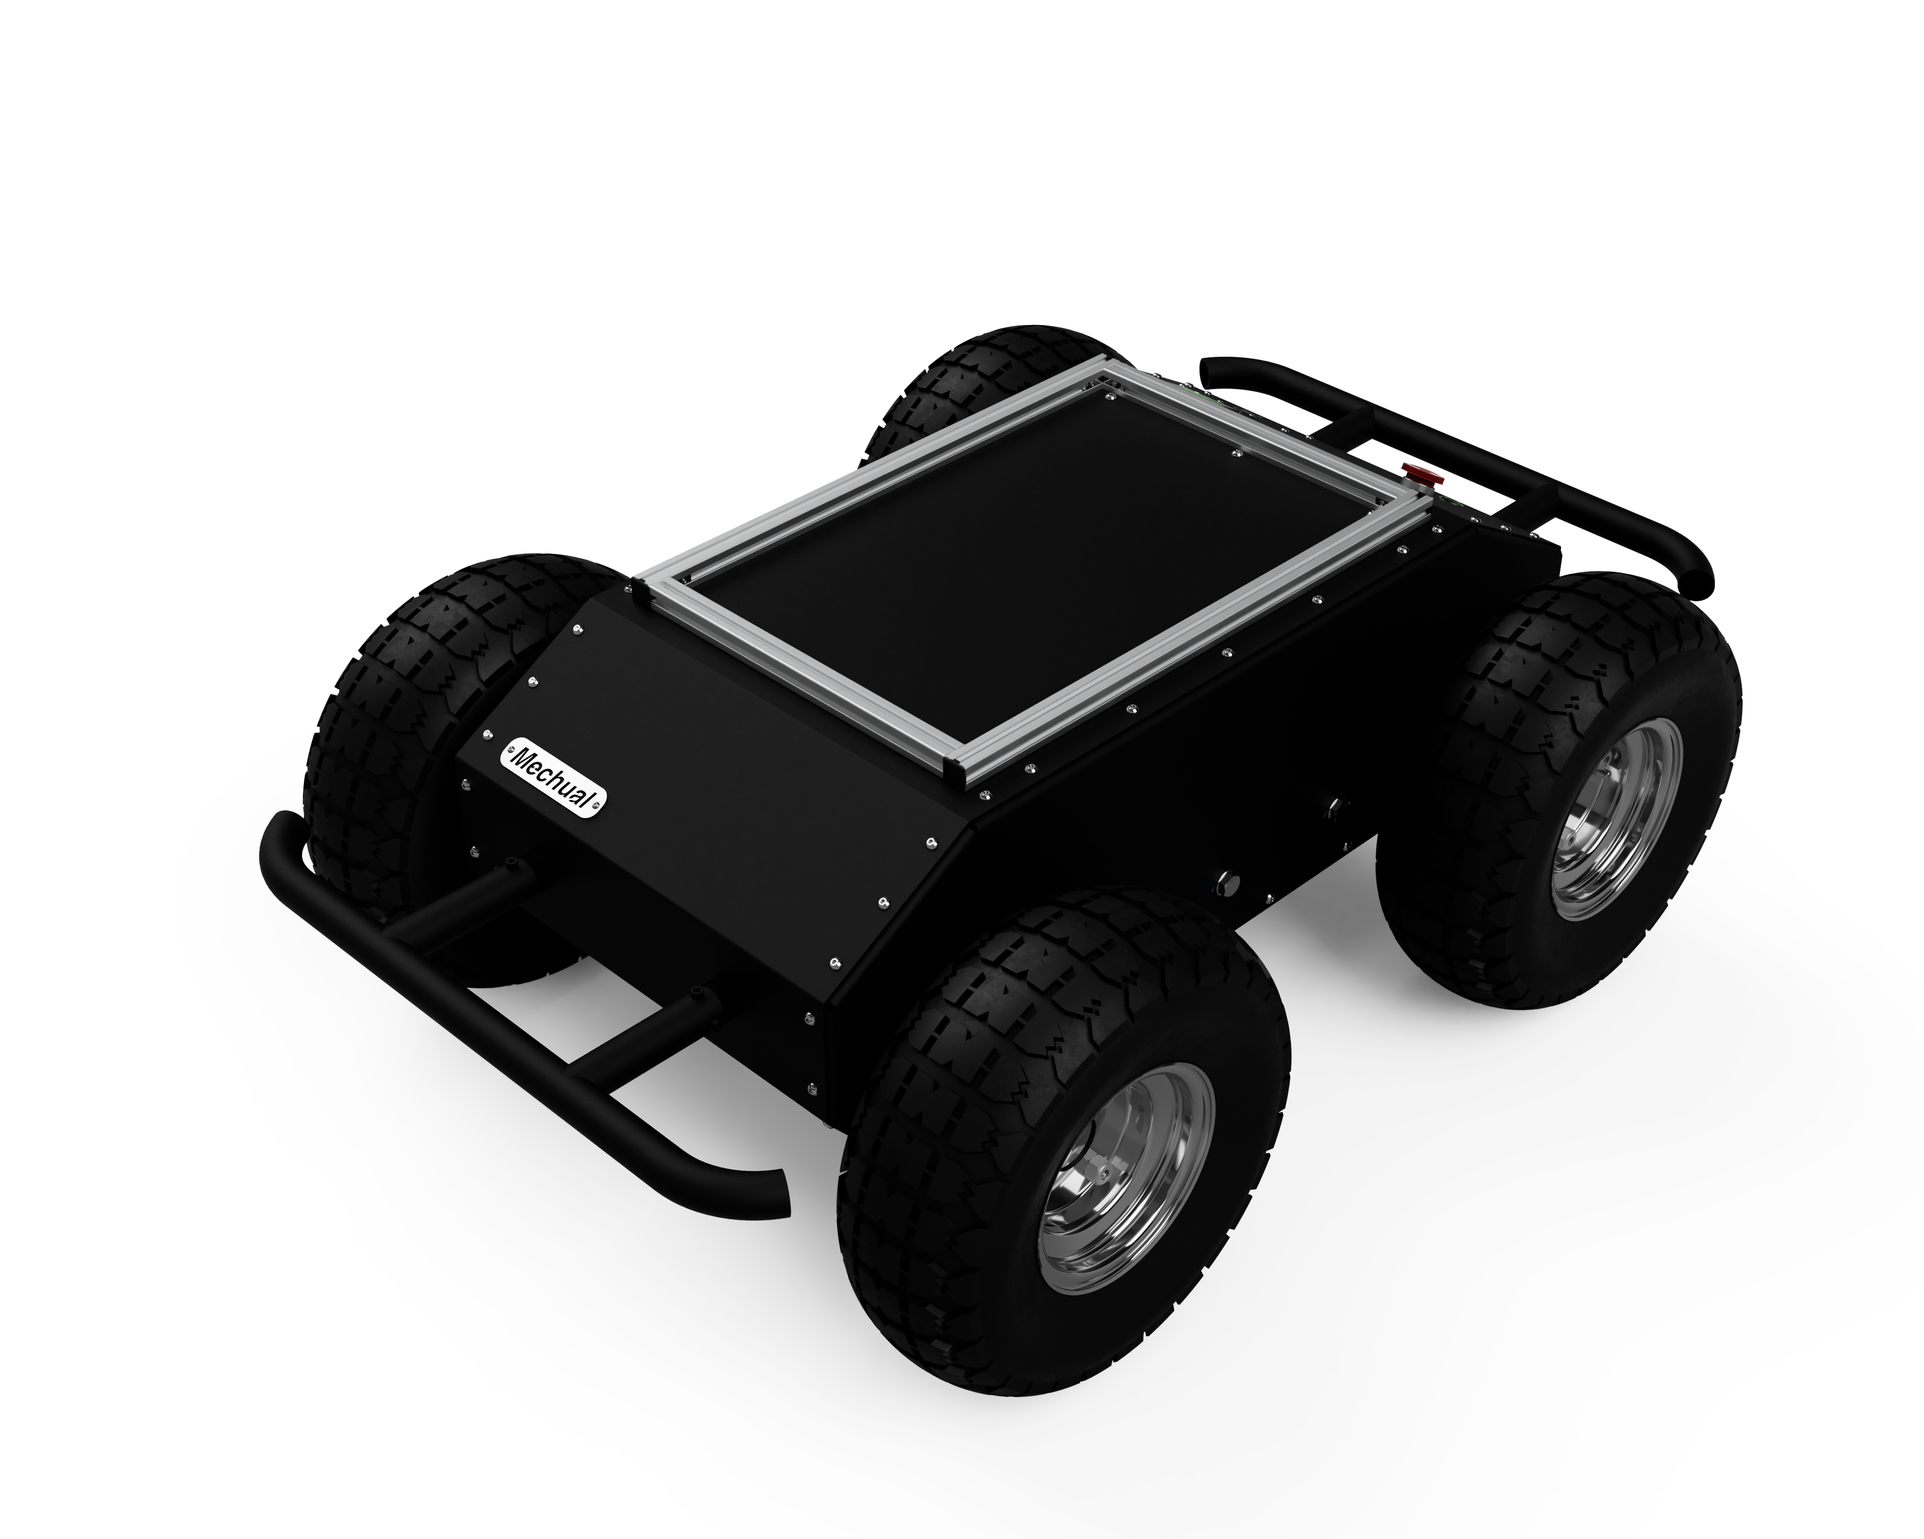
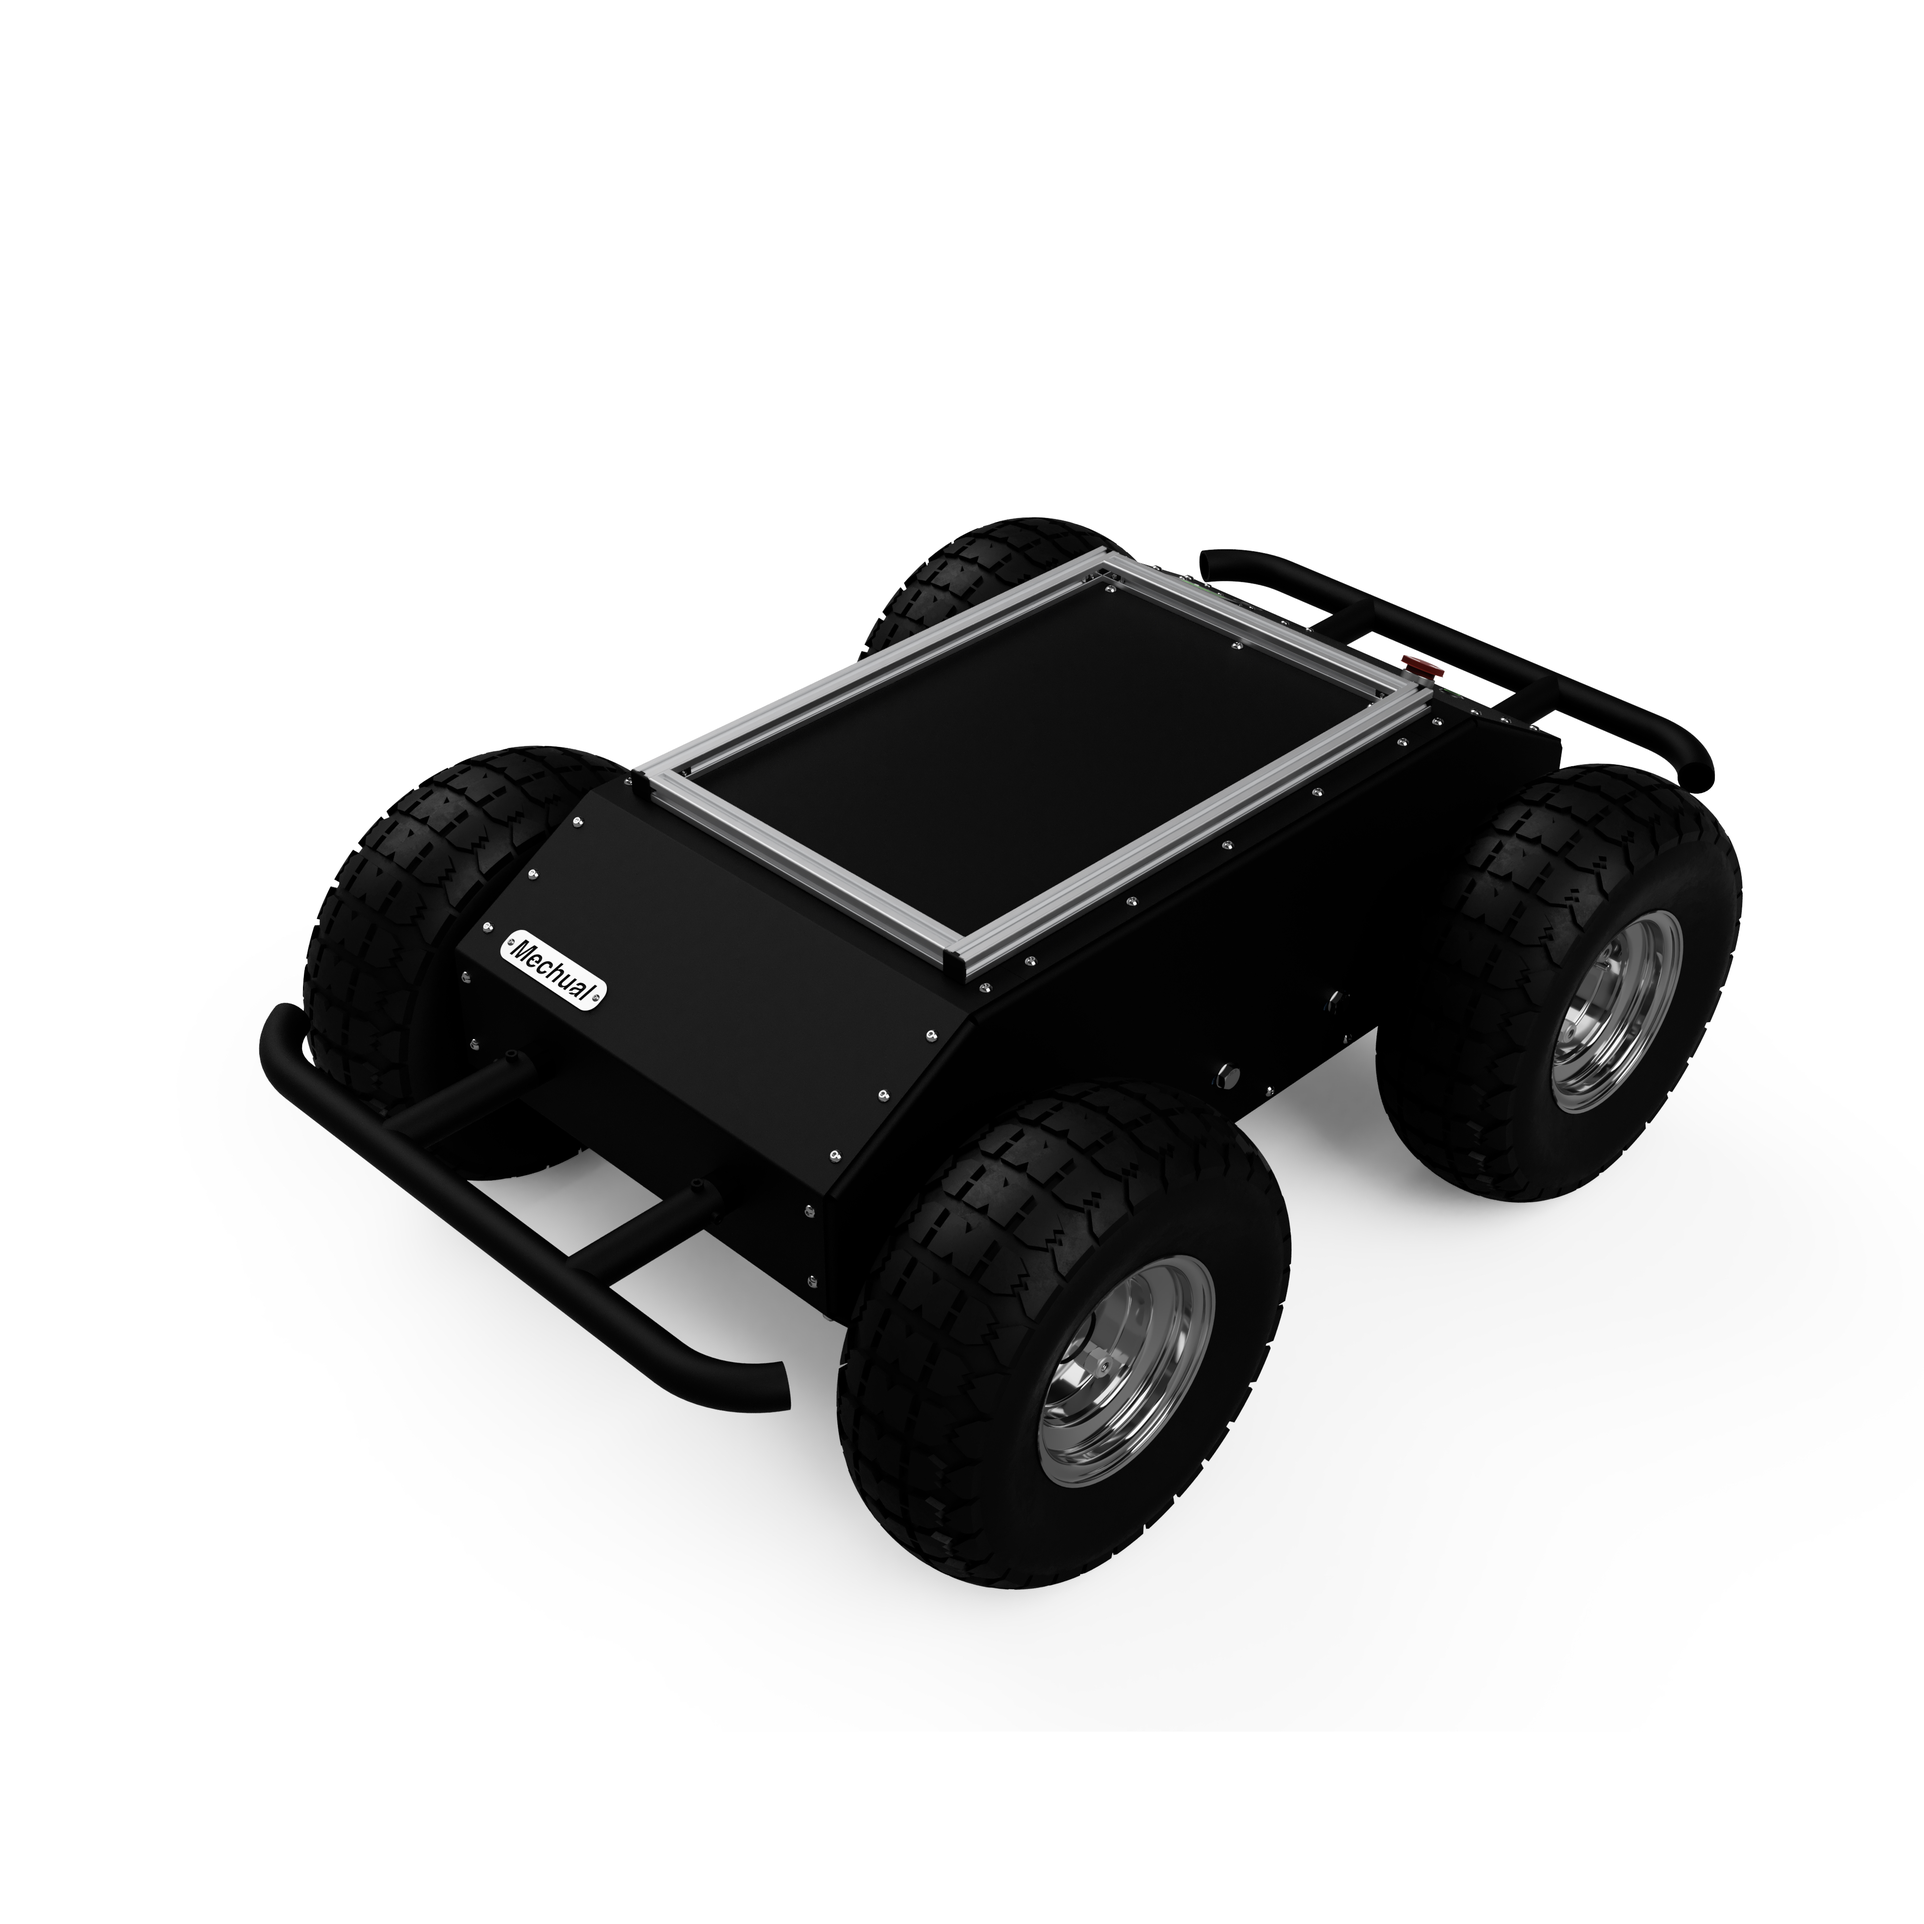
sdssda

diff --git a/robots/index.html b/robots/index.html
@@ -419,7 +419,7 @@ var ctNocache = {"ajaxurl":"https:\/\/clearpathrobotics.com\/wp-admin\/admin-aja
 			</div> <!-- .et_pb_column --><div class="et_pb_column et_pb_column_1_3  et_pb_column_1">
 				
 				<div class="et_pb_module et-waypoint et_pb_image et_pb_animation_left et_pb_image_1 et_always_center_on_mobile">
-				<a href="../Saibya/index.html"><img src="../wp-content/uploads/2015/05/Saibya_white_2.png" alt="husky robotic platform" />
+				<a href="../Saibya/index.html"><img src="../wp-content/uploads/2015/05/Saibya_white.png" alt="husky robotic platform" />
 			</a>
 			</div><div class="et_pb_module et_pb_toggle et_pb_toggle_close cp__product__toggle et_pb_toggle_1 et_pb_toggle_item">
 				<h5 class="et_pb_toggle_title">Saibya</h5>
